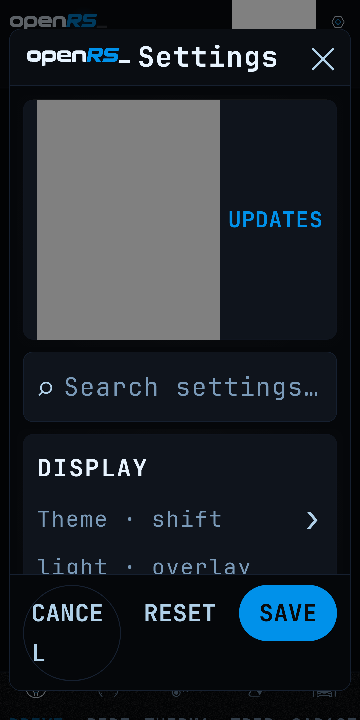
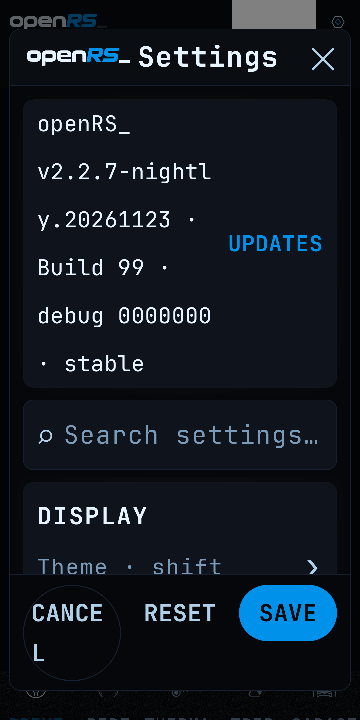
Pin Settings' version label in the screenshot test (#594)
Review: the ABOUT strip's height now follows the version label, which wraps
beside UPDATES, and that label is build-specific (the source commit and the
dirty star differ between a working tree and CI). The previous commit only
re-recorded from a clean tree.

SettingsDialog takes versionLabel (default BuildInfo.settingsLabel) and passes
it to AboutStrip. MainScreensScreenshotTest draws Settings with a fixed debug
label (a nightly's name, Build 99, commit 0000000, clean), so the goldens no
longer depend on the tree or the commit; the label shows in the images instead
of a grey mask. The mask rule stays for any other screen showing the commit.
Settings goldens re-recorded.

diff --git a/android/app/src/testDebug/java/com/openrs/dash/MainScreensScreenshotTest.kt b/android/app/src/testDebug/java/com/openrs/dash/MainScreensScreenshotTest.kt
@@ -234,7 +234,8 @@ class MainScreensScreenshotTest(private val fontScale: Float) {
 
     /**
      * What changes from run to run and says nothing about layout, painted over in screen pixels (each box keeps its size):
-     * - the debug build's source revision in Settings' ABOUT line ("· debug 1549b7e*"), new with every commit;
+     * - the debug build's source revision, new with every commit, wherever a screen shows it (Settings' ABOUT line draws a
+     *   fixed label instead, [pinnedVersion]);
      * - the header's LIVE pill: its dot pulses for ever, and how far it has got when the image is taken depends on how long
      *   Robolectric waits for background work first (seen on pages after a scroll), so it differed between runs.
      * A box covers only what shows of its window: a dialog drawn over it hides the part under the dialog's content (What's
@@ -371,13 +372,19 @@ class MainScreensScreenshotTest(private val fontScale: Float) {
         Frame(4, driving) { GaragePage(debugLines = emptyList(), vs = driving, p = UserPrefs(), snackbarHostState = remember { SnackbarHostState() }) }
     }
 
+    /**
+     * Settings' ABOUT strip with a fixed debug label: the build's own ("… · debug <commit>*") wraps beside UPDATES, so its
+     * length (the dirty star) would move the strip's height between a working tree and CI (#594).
+     */
+    private val pinnedVersion = com.openrs.dash.update.BuildInfo.settingsLabel("2.2.7-nightly.20261123", 99, "debug", "0000000", dirty = false)
+
     @Test fun settings() = shoot("settings", driving) {
-        Frame(0, driving) { SettingsDialog(onDismiss = {}) }
+        Frame(0, driving) { SettingsDialog(onDismiss = {}, versionLabel = pinnedVersion) }
     }
 
     /** Settings → UNITS: the region presets, every unit row and the TPMS thresholds. */
     @Test fun settingsUnits() = shoot("settings_units", driving, before = { clickText("UNITS") }) {
-        Frame(0, driving) { SettingsDialog(onDismiss = {}) }
+        Frame(0, driving) { SettingsDialog(onDismiss = {}, versionLabel = pinnedVersion) }
     }
 
     /** What's New: the first screenful only (the list below is release-note text, one style throughout). */

diff --git a/android/app/src/main/java/com/openrs/dash/ui/SettingsSheet.kt b/android/app/src/main/java/com/openrs/dash/ui/SettingsSheet.kt
@@ -135,6 +135,8 @@ fun SettingsDialog(
     onExitDemo: () -> Unit = {},
     /** Open on CONNECTION — from the dashboard's "select a Bluetooth device" prompt (#234). */
     openConnection: Boolean = false,
+    /** The ABOUT strip's version; a parameter so the screenshot test draws a fixed one (#594). */
+    versionLabel: String = com.openrs.dash.update.BuildInfo.settingsLabel,
 ) {
     val ctx = LocalContext.current
     val accent = LocalThemeAccent.current
@@ -1002,6 +1004,7 @@ fun SettingsDialog(
                     onToggle = { aboutExpanded = !aboutExpanded },
                     updateChannel = updateChannel,
                     onChannelChange = { updateChannel = it },
+                    versionLabel = versionLabel,
                 )
 
                 // Search bar
@@ -1258,7 +1261,7 @@ internal fun AboutStrip(
     onToggle: () -> Unit,
     updateChannel: String,
     onChannelChange: (String) -> Unit,
-    /** This build's "2.2.7-rc.7 · Build 36 …"; a parameter so a test can draw the release build's label too (#594). */
+    /** This build's "2.2.7-rc.7 · Build 36 …"; a parameter so tests can draw a fixed or a release build's label (#594). */
     versionLabel: String = com.openrs.dash.update.BuildInfo.settingsLabel,
 ) {
     val accent = LocalThemeAccent.current
